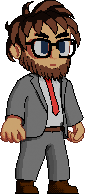
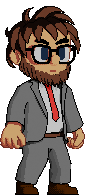
finally found the right images to animate idle pose

diff --git a/abdo.cpp b/abdo.cpp
@@ -7,15 +7,17 @@
 Abdo::Abdo() {
     currentState = IDLE;
     setFlag(ItemClipsToShape);
-    idlePixmaps << QPixmap(":/images/abdo/idle1.png") << QPixmap(":/images/abdo/idle2.png");
-    runPixmaps << QPixmap(":/images/abdo/idle1.png") << QPixmap(":/abdo/idle2.png");
-    fallPixmap = QPixmap(":/images/abdo/idle1.png");
-    jumpPixmap = QPixmap(":/images/abdo/idle1.png");
+    idlePixmaps << QPixmap(":/images/abdo/idle1.png").scaled(50,115) << QPixmap(":/images/abdo/idle2.png").scaled(50,115);
+    runPixmaps << QPixmap(":/images/abdo/idle1.png").scaled(50,115) << QPixmap(":/abdo/idle2.png").scaled(50,115);
+    fallPixmap = QPixmap(":/images/abdo/idle1.png").scaled(50,115);
+    jumpPixmap = QPixmap(":/images/abdo/idle1.png").scaled(50,115);
 
     currentUrl = ":/images/abdo/idle1.png";
     direction = 1;
 
     currentFrame = 0;
+
+    animate();
 
     QTimer* timer = new QTimer();
     connect(timer, SIGNAL(timeout()), this, SLOT(animate()));
@@ -27,14 +29,8 @@ QRectF Abdo::boundingRect() const{
 }
 
 void Abdo::paint(QPainter *painter, const QStyleOptionGraphicsItem *option, QWidget *widget) {
-    // TODO: Fix this. I don't really know what's wrong with the animations but this makes it look a little bit better.
-    int y = 0;
-    if(currentState == IDLE) {
-        y = currentFrame % idlePixmaps.size() == 0 ? 2 : 6;
-    }
-    // TODO: Optimize This
-    float LtoRRatio =  (float)currentPixmap.height() / (float)currentPixmap.width();
-    painter->drawPixmap(0, y, 50, 50 * LtoRRatio, direction == 1 ? currentPixmap : currentPixmap.transformed(QTransform().scale(direction,1)));
+    QPixmap directedPixmap = direction == 1 ? currentPixmap : currentPixmap.transformed(QTransform().scale(direction,1));
+    painter->drawPixmap(0, 0, currentPixmap.width(), currentPixmap.height(), directedPixmap);
 
     Q_UNUSED(widget);
     Q_UNUSED(option);
